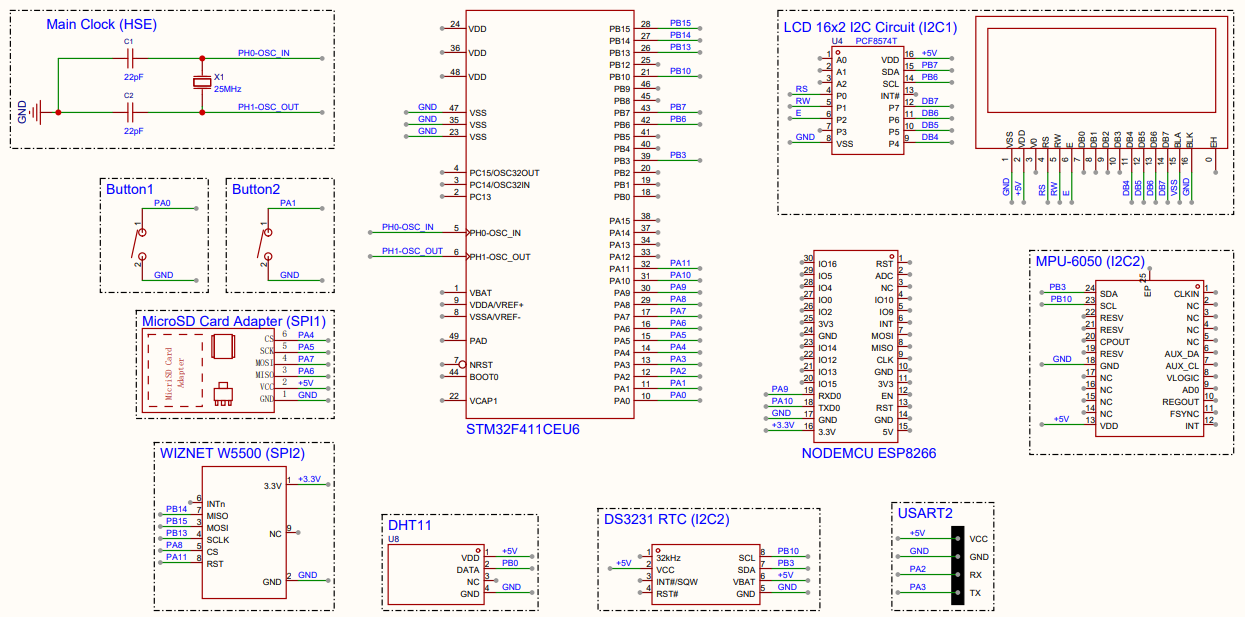
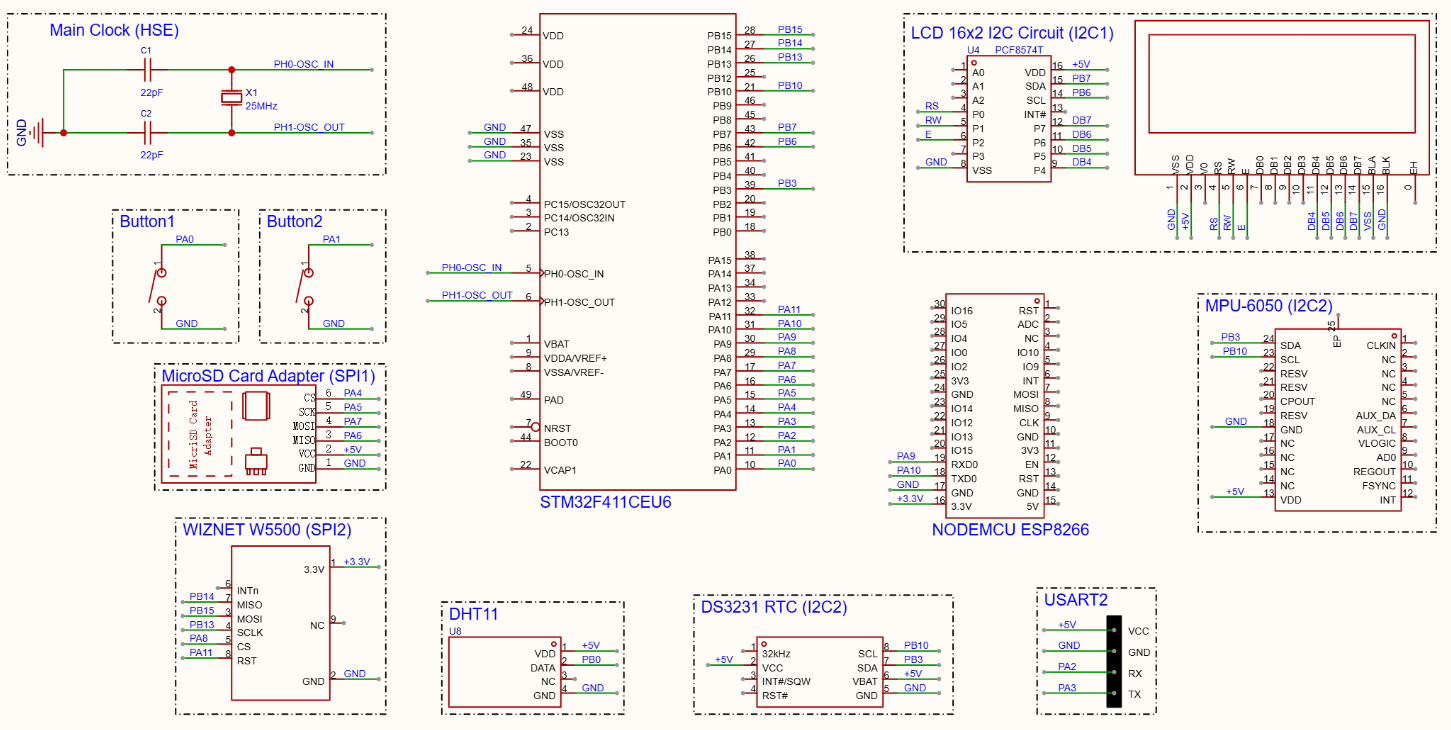
update schematic diagram

diff --git a/README.md b/README.md
@@ -1,10 +1,12 @@
-# STM32F411 Multi-Sensor Data Logger with IoT Connectivity
+# STM32F411 FreeRTOS Cloud Logger
 
-[![STM32](https://img.shields.io/badge/STM32-F411CEC6-blue)](https://www.st.com/en/microcontrollers-microprocessors/stm32f411ce.html)
-[![CubeIDE](https://img.shields.io/badge/IDE-STM32CubeIDE-darkblue)](http://st.com/en/development-tools/stm32cubeide.html)
-[![FatFS](https://img.shields.io/badge/FatFS-R0.15-darkgreen)](http://elm-chan.org/fsw/ff/00index_e.html)
-[![ESP8266](https://img.shields.io/badge/NodeMCU-ESP8266-orange)](https://www.espressif.com/en/products/socs/esp8266)
-[![MQTT](https://img.shields.io/badge/MQTT-3.1.1-green)](https://mqtt.org/)
+*Multi-sensor data logger with LCD, MicroSD, ThingSpeak, and a local HTTP dashboard built on FreeRTOS and HAL.*
+
+[![MCU](https://img.shields.io/badge/MCU-STM32F411CE-blue)](https://www.st.com/en/microcontrollers-microprocessors/stm32f411ce.html)
+[![RTOS](https://img.shields.io/badge/RTOS-FreeRTOS-green)](https://www.freertos.org/)
+[![MQTT](https://img.shields.io/badge/MQTT-3.1.1-orange)](https://mqtt.org/)
+[![WiFi](https://img.shields.io/badge/WiFi-ESP8266-yellow)](https://www.espressif.com/en/products/socs/esp8266)
+[![Ethernet](https://img.shields.io/badge/Ethernet-W5500-blueviolet)](https://www.wiznet.io/product-item/w5500/)
 
 ## Project Overview
 
@@ -20,7 +22,7 @@
 
 ## Free RTOS
 
-<img width="1000" height="600" alt="flow chart"
+<img width="1000" height="800" alt="flow chart"
      src="https://raw.githubusercontent.com/rubin-khadka/STM32F411_FreeRTOS_Cloud_Logger/main/Assets/freertos_architecture.png" />
 
 ## Project Status
